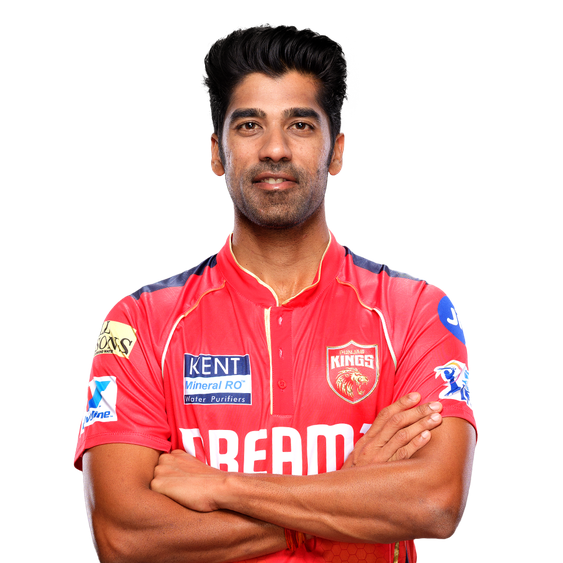
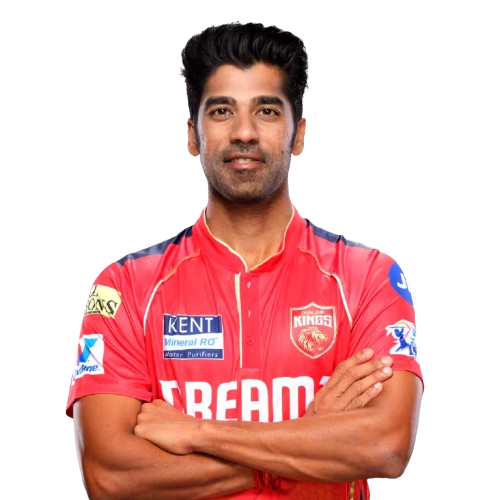
extra player images added

diff --git a/src/components/SubsitituteDataTable.tsx b/src/components/SubsitituteDataTable.tsx
@@ -66,18 +66,19 @@ export function SubstituteDataTable<TData extends Transaction, TValue>({
     const team = localStorage.getItem('teamName')
     fetchSelection(game, team!).then((data) => {
       setFinalTeam(data)
+      const keep = data?.finalTeam.filter((player) => player.type === 'WICKET_KEEPER')
+      const bats = data?.finalTeam.filter((player) => player.type === 'BATSMAN')
+      const bowls = data?.finalTeam.filter((player) => player.type === 'BOWLER')
+      const all = data?.finalTeam.filter((player) => player.type === 'ALL_ROUNDER')
+      setKeepers(keep)
+      setBatsmen(bats)
+      setBowlers(bowls)
+      setALlRounders(all)
+      setTeamPlayers(teamP)
+      setTeamFinal(true)
+      setLockedIn(true)
+
     })
-    const keep = finalTeam?.finalTeam.filter((player) => player.type === 'WICKET_KEEPER')
-    const bats = finalTeam?.finalTeam.filter((player) => player.type === 'BATSMAN')
-    const bowls = finalTeam?.finalTeam.filter((player) => player.type === 'BOWLER')
-    const all = finalTeam?.finalTeam.filter((player) => player.type === 'ALL_ROUNDER')
-    setKeepers(keep)
-    setBatsmen(bats)
-    setBowlers(bowls)
-    setALlRounders(all)
-    setTeamPlayers(teamP)
-    setTeamFinal(true)
-    setLockedIn(true)
   }
   useEffect(() => {
     setGameId(parseInt(localStorage.getItem('game')!))
